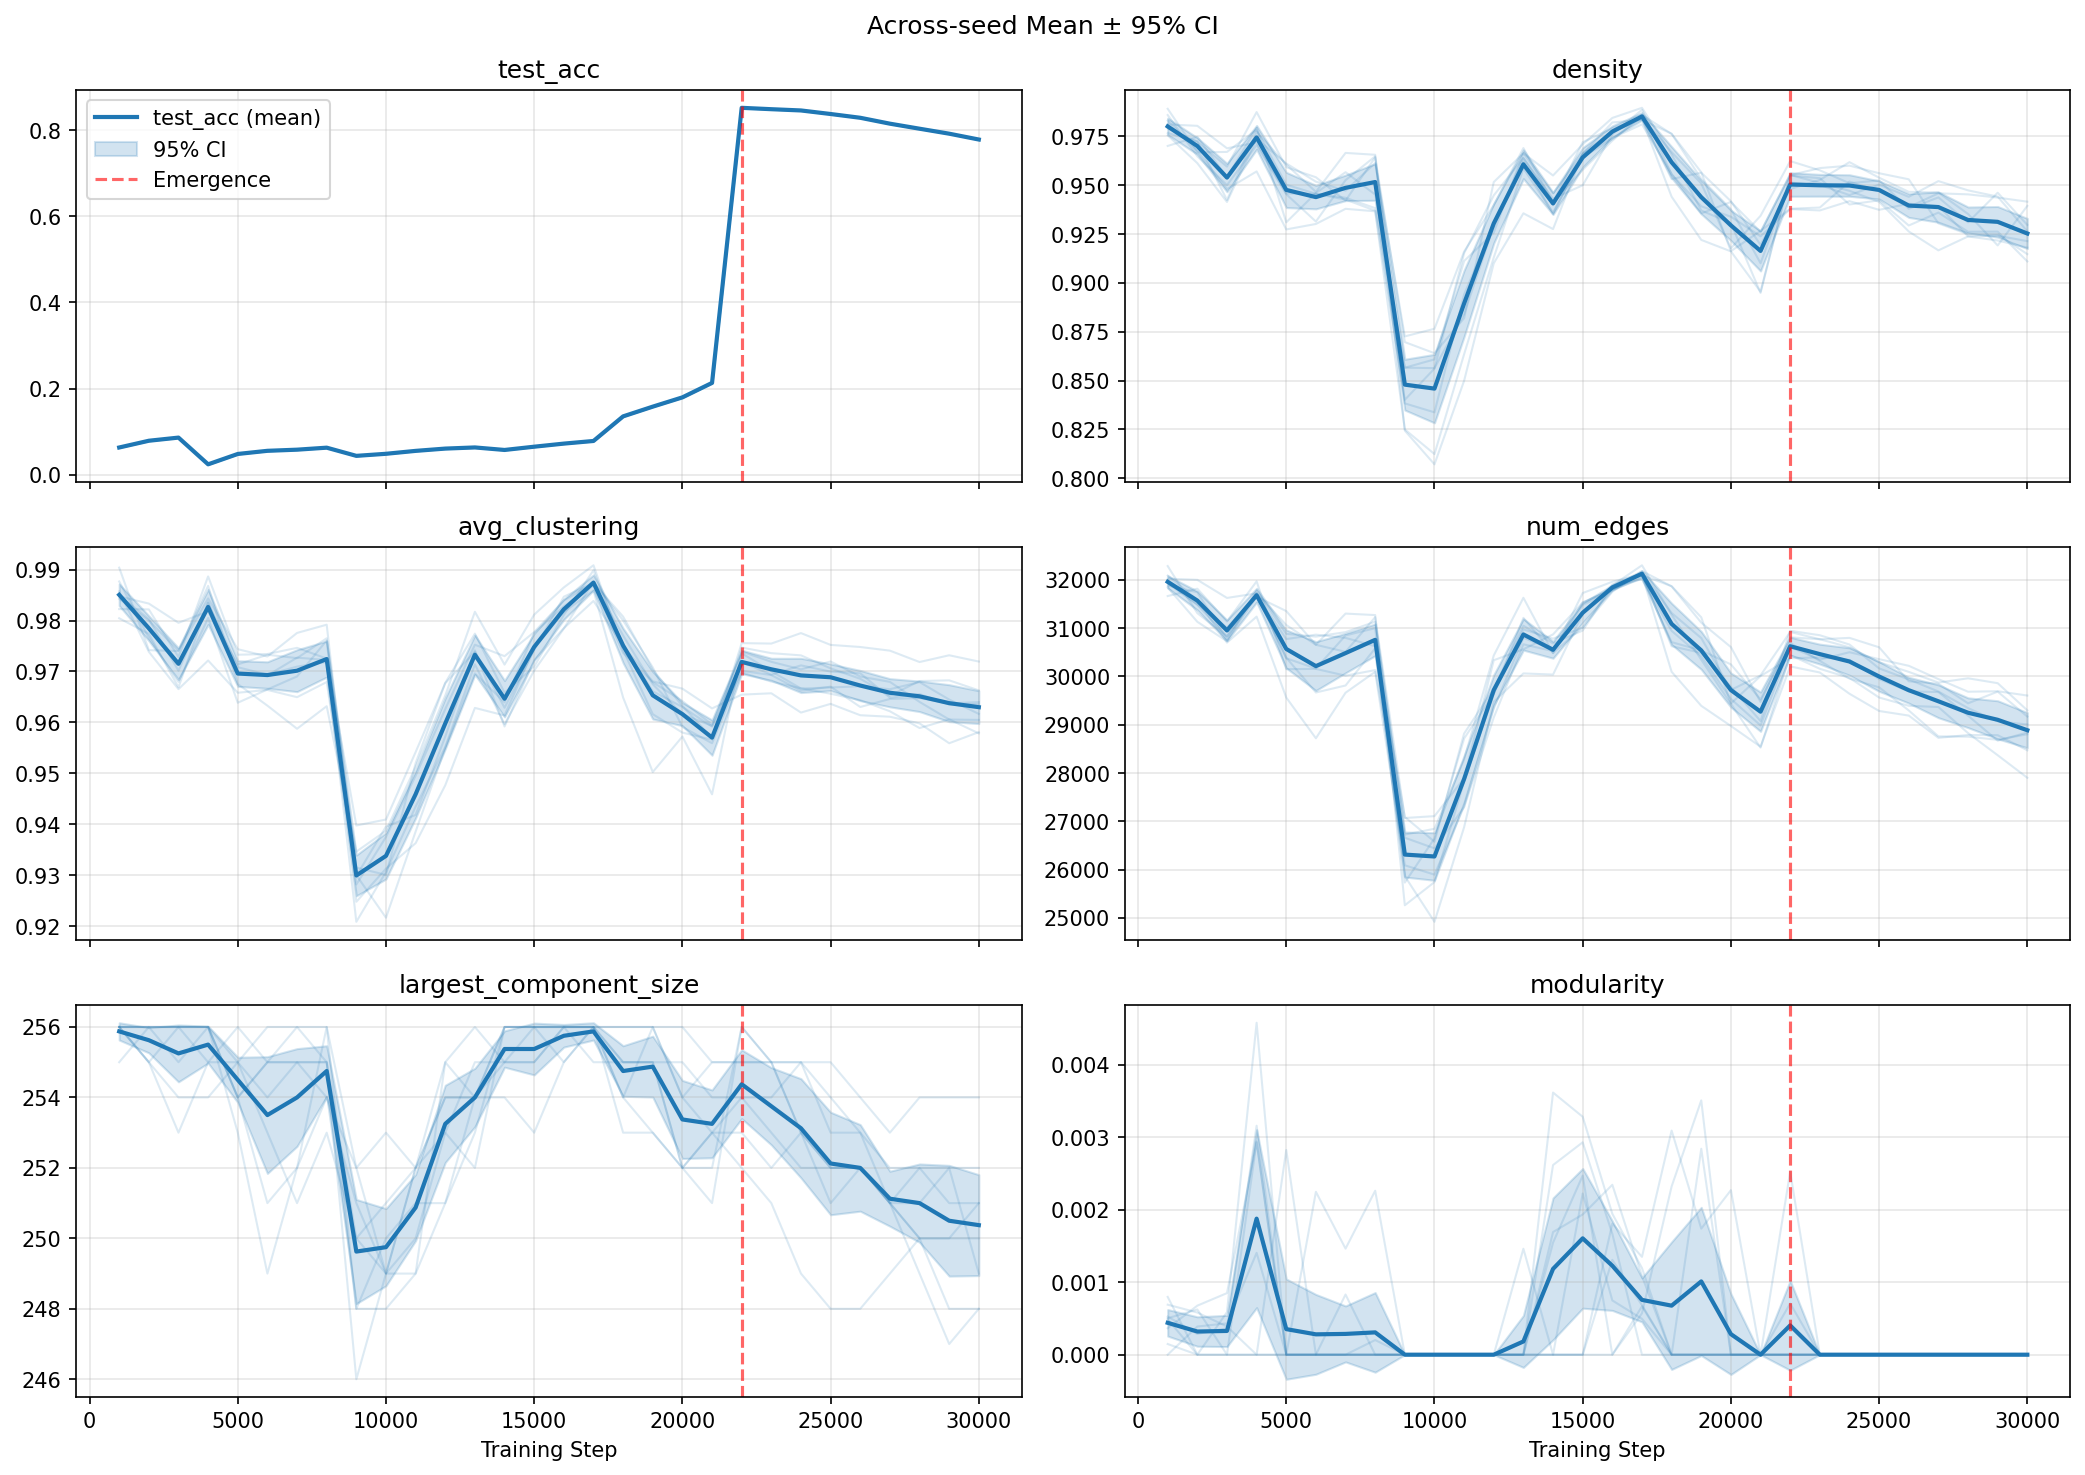
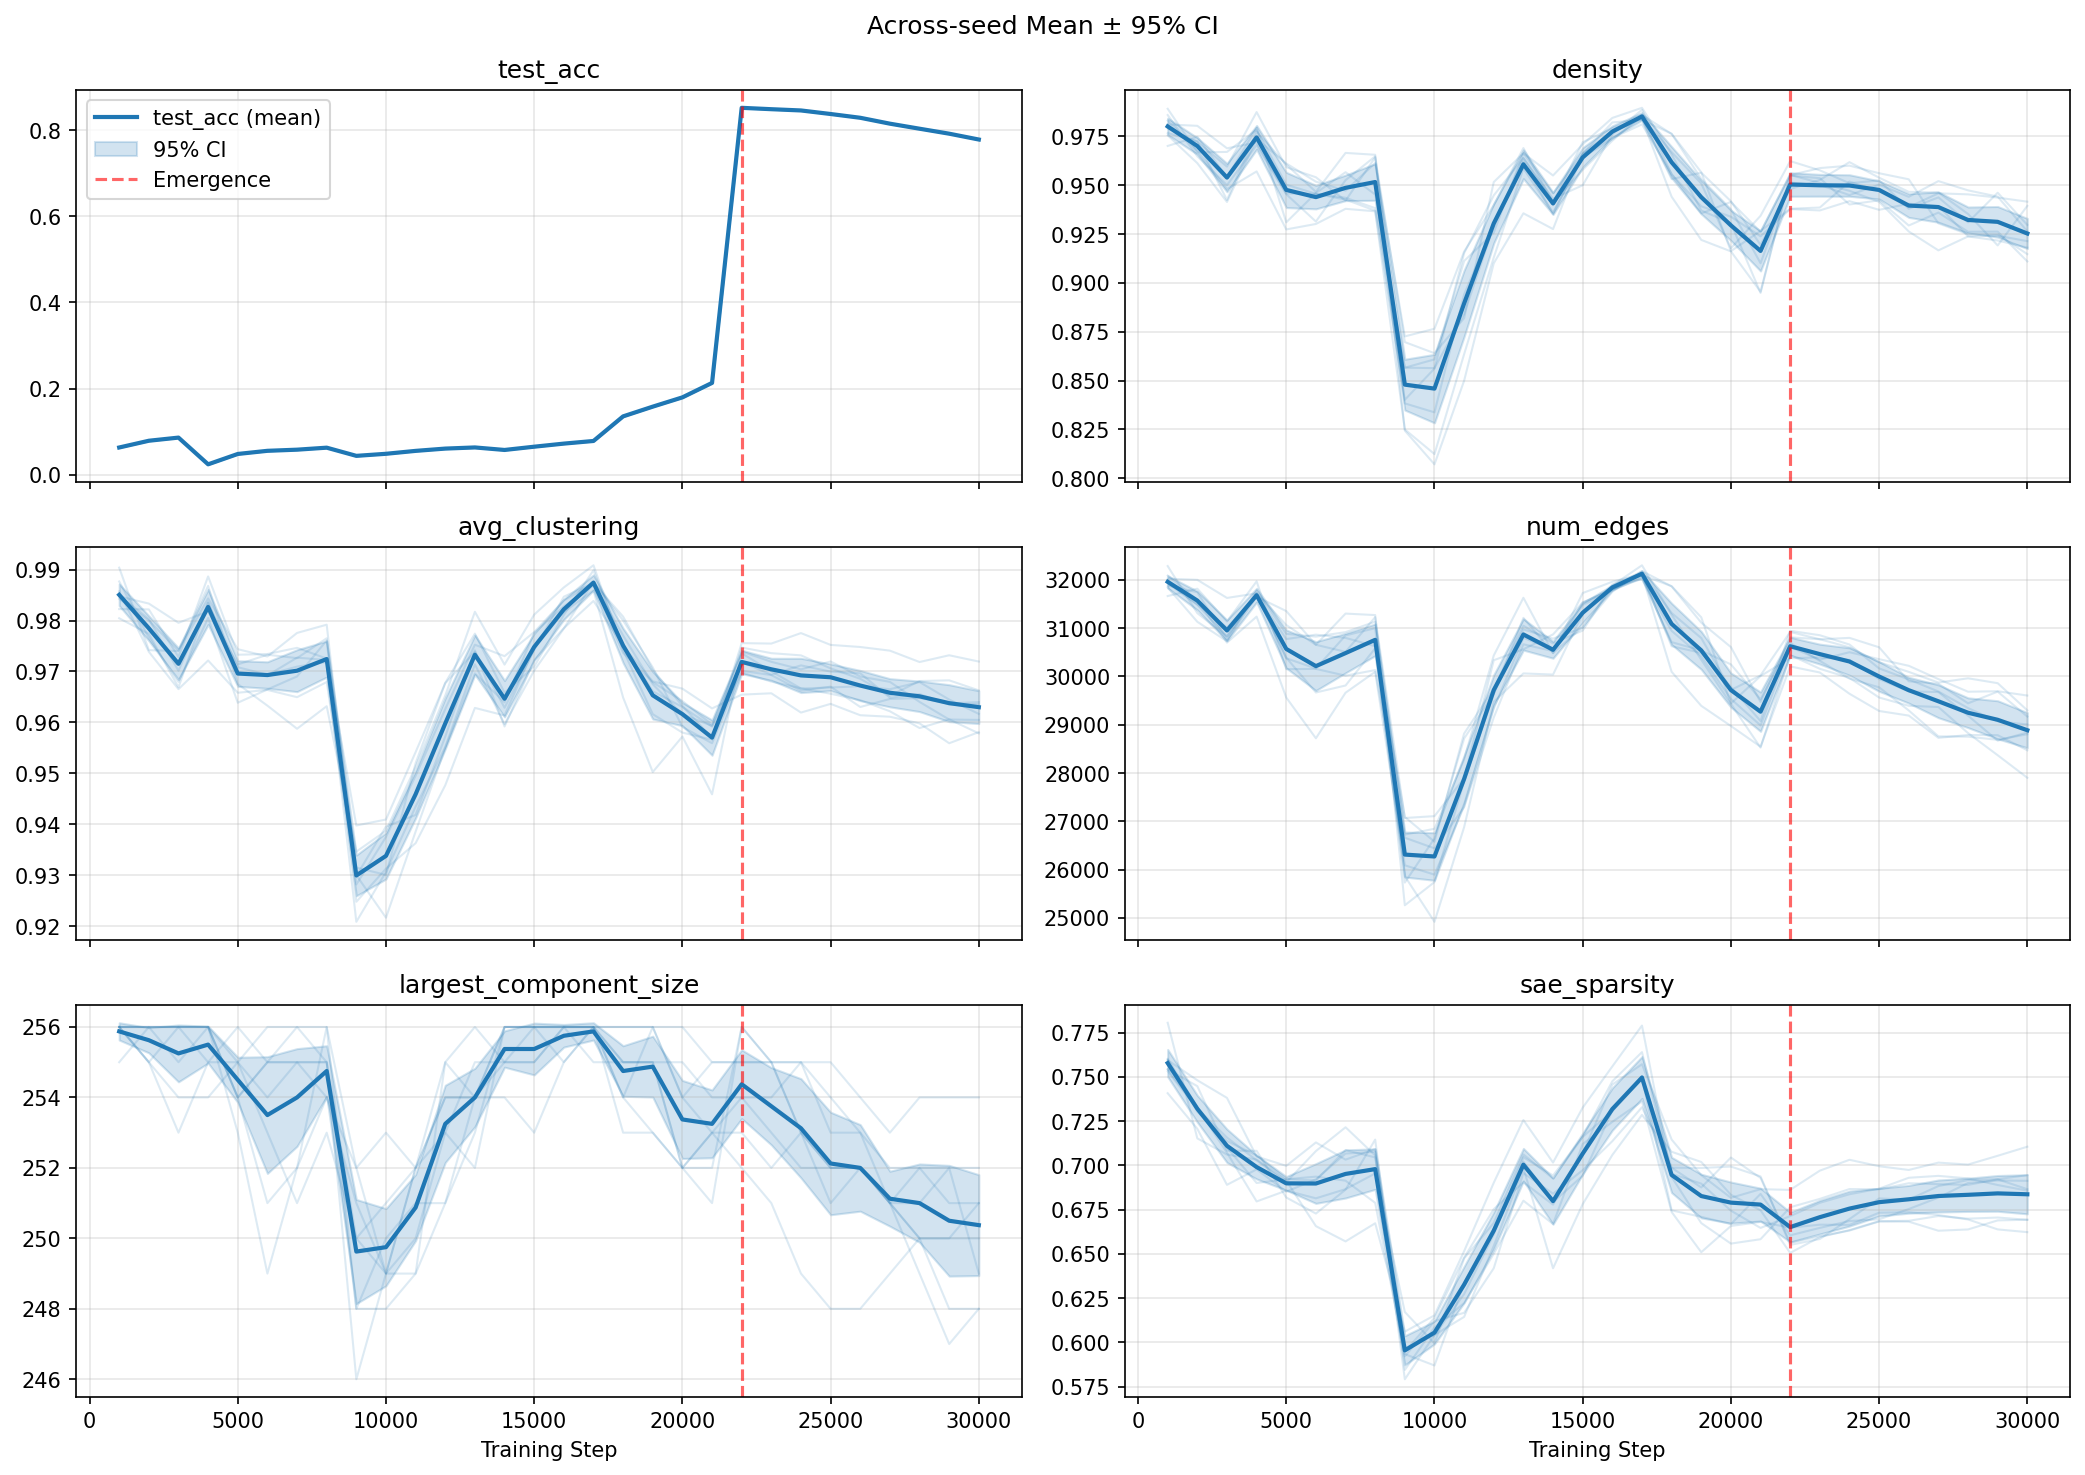
formalize prediction

diff --git a/emergence-analysis-pipeline/core/tracking.py b/emergence-analysis-pipeline/core/tracking.py
@@ -216,6 +216,116 @@ class EmergenceTracker:
             plt.close()
         else:
             plt.show()
+    
+    @staticmethod
+    def compute_lead_lag(
+        seed_metric_dfs: Dict[str, pd.DataFrame],
+        metrics: List[str],
+        step_col: str = 'step',
+        acc_col: str = 'test_acc',
+        lags: List[int] = [1, 2, 3, 4, 5]
+    ) -> pd.DataFrame:
+        """
+        Compute across-seed lead–lag correlations between delta(metric) and delta(acc).
+        Returns a long DataFrame with columns: metric, lag, r_mean, ci_low, ci_high, n_seeds.
+        Uses Fisher z-transform to average correlations and compute 95% CI across seeds.
+        """
+        # Collect per-seed correlation arrays for each metric
+        metric_to_seed_r: Dict[str, List[np.ndarray]] = {m: [] for m in metrics}
+        for _seed, df in seed_metric_dfs.items():
+            if acc_col not in df.columns or step_col not in df.columns:
+                continue
+            df_sorted = df.sort_values(step_col).reset_index(drop=True)
+            # First differences over full timeline (np.diff avoids leading NaN)
+            delta_acc = np.diff(df_sorted[acc_col].to_numpy(dtype=float))
+            for metric in metrics:
+                if metric not in df_sorted.columns:
+                    continue
+                delta_m = np.diff(df_sorted[metric].to_numpy(dtype=float))
+                r_vals: List[float] = []
+                for k in lags:
+                    if len(delta_m) <= k or len(delta_acc) <= k:
+                        r_vals.append(np.nan)
+                        continue
+                    a = delta_m[:-k]
+                    b = delta_acc[k:]
+                    # Check finite and non-constant
+                    if (np.all(np.isfinite(a)) and np.all(np.isfinite(b)) and
+                        np.std(a) > 0 and np.std(b) > 0):
+                        # Pearson r via numpy
+                        r = np.corrcoef(a, b)[0, 1]
+                        r_vals.append(float(r))
+                    else:
+                        r_vals.append(np.nan)
+                metric_to_seed_r[metric].append(np.array(r_vals, dtype=float))
+        
+        # Aggregate with Fisher z-transform and compute 95% CI across seeds
+        rows: List[Dict[str, float]] = []
+        for metric in metrics:
+            seed_arrays = [arr for arr in metric_to_seed_r.get(metric, []) if arr.size > 0]
+            if not seed_arrays:
+                continue
+            R = np.vstack(seed_arrays)  # shape: (n_seeds, n_lags)
+            r_mean_list: List[float] = []
+            ci_low_list: List[float] = []
+            ci_high_list: List[float] = []
+            n_used_list: List[int] = []
+            for j in range(R.shape[1]):
+                rj = R[:, j]
+                mask = np.isfinite(rj)
+                rj = rj[mask]
+                n = int(mask.sum())
+                if n == 0:
+                    r_mean_list.append(np.nan)
+                    ci_low_list.append(np.nan)
+                    ci_high_list.append(np.nan)
+                    n_used_list.append(0)
+                    continue
+                # Clip r to avoid infinite atanh
+                rj = np.clip(rj, -0.999999, 0.999999)
+                z = np.arctanh(rj)
+                z_mean = float(np.mean(z))
+                r_bar = float(np.tanh(z_mean))
+                if n > 1:
+                    z_se = float(np.std(z, ddof=1)) / np.sqrt(n)
+                    z_lo = z_mean - 1.96 * z_se
+                    z_hi = z_mean + 1.96 * z_se
+                    lo = float(np.tanh(z_lo))
+                    hi = float(np.tanh(z_hi))
+                else:
+                    lo = np.nan
+                    hi = np.nan
+                r_mean_list.append(r_bar)
+                ci_low_list.append(lo)
+                ci_high_list.append(hi)
+                n_used_list.append(n)
+            for lag, rm, lo, hi, n in zip(lags, r_mean_list, ci_low_list, ci_high_list, n_used_list):
+                rows.append({'metric': metric, 'lag': lag, 'r_mean': rm, 'ci_low': lo, 'ci_high': hi, 'n_seeds': n})
+        return pd.DataFrame(rows)
+    
+    @staticmethod
+    def plot_lead_lag_heatmap(
+        df: pd.DataFrame,
+        save_path: Optional[Path] = None,
+        figsize: Tuple[int, int] = (10, 6)
+    ):
+        """
+        Plot heatmap of mean correlations (rows: metric, cols: lag). Values centered at 0 with annotations.
+        """
+        if df.empty:
+            return
+        pivot = df.pivot(index='metric', columns='lag', values='r_mean')
+        plt.figure(figsize=figsize)
+        ax = sns.heatmap(pivot, vmin=-1.0, vmax=1.0, center=0.0, cmap='RdBu_r', annot=True, fmt='.2f')
+        ax.set_title('Lead–Lag correlation: Δmetric vs Δaccuracy (mean across seeds)')
+        ax.set_xlabel('Lag (eval steps)')
+        ax.set_ylabel('Metric')
+        plt.tight_layout()
+        if save_path:
+            plt.savefig(save_path, dpi=150, bbox_inches='tight')
+            plt.close()
+        else:
+            plt.show()
 
     @staticmethod
     def aggregate_seed_metrics(seed_metric_dfs: Dict[str, pd.DataFrame],
@@ -283,14 +393,14 @@ class EmergenceTracker:
         if mean_df.empty:
             return
         if metrics is None:
-            # Default to the same metrics as single-seed evolution plots
+            # Default to the same metrics as single-seed evolution plots, but use sparsity instead of modularity
             default_order = [
                 'test_acc',
                 'density',
                 'avg_clustering',
                 'num_edges',
                 'largest_component_size',
-                'modularity'
+                'sae_sparsity'
             ]
             metrics = [m for m in default_order if m in mean_df.columns]
             if not metrics:

diff --git a/emergence-analysis-pipeline/cli/aggregate_seeds.py b/emergence-analysis-pipeline/cli/aggregate_seeds.py
@@ -87,6 +87,24 @@ def main():
         emergence_steps=seed_emergence_steps
     )
 
+    # Lead–Lag correlation across seeds
+    if args.metrics:
+        metric_list = args.metrics
+    else:
+        # Use the five plotted graph metrics (exclude test_acc)
+        preferred = ['density', 'avg_clustering', 'num_edges', 'largest_component_size', 'sae_sparsity']
+        available = [m for m in preferred if m in agg['mean'].columns]
+        # Fallback: any non-step, non-accuracy base metrics
+        metric_list = available if available else [
+            c for c in agg['mean'].columns
+            if c not in ('step', 'test_acc')
+        ]
+    # Exclude derived columns if present
+    metric_list = [m for m in metric_list if not (m.endswith('_delta') or m.endswith('_rel_change') or m.endswith('_rolling_avg'))]
+    lead_lag_df = EmergenceTracker.compute_lead_lag(seed_to_df, metrics=metric_list)
+    lead_lag_df.to_csv(out_dir / 'lead_lag_results.csv', index=False)
+    EmergenceTracker.plot_lead_lag_heatmap(lead_lag_df, save_path=out_dir / 'lead_lag_heatmap.png')
+
     # Save manifest
     with open(out_dir / 'manifest.json', 'w') as f:
         json.dump({
